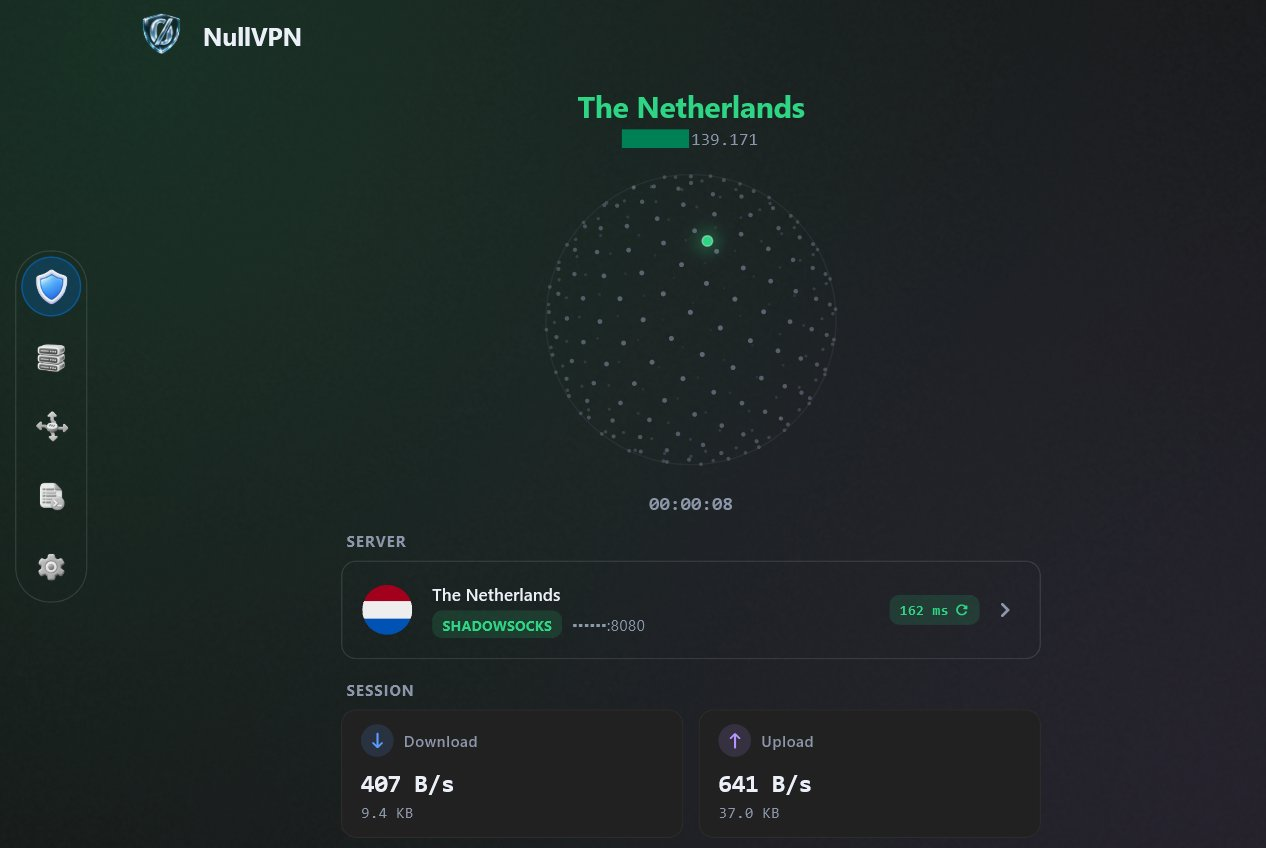
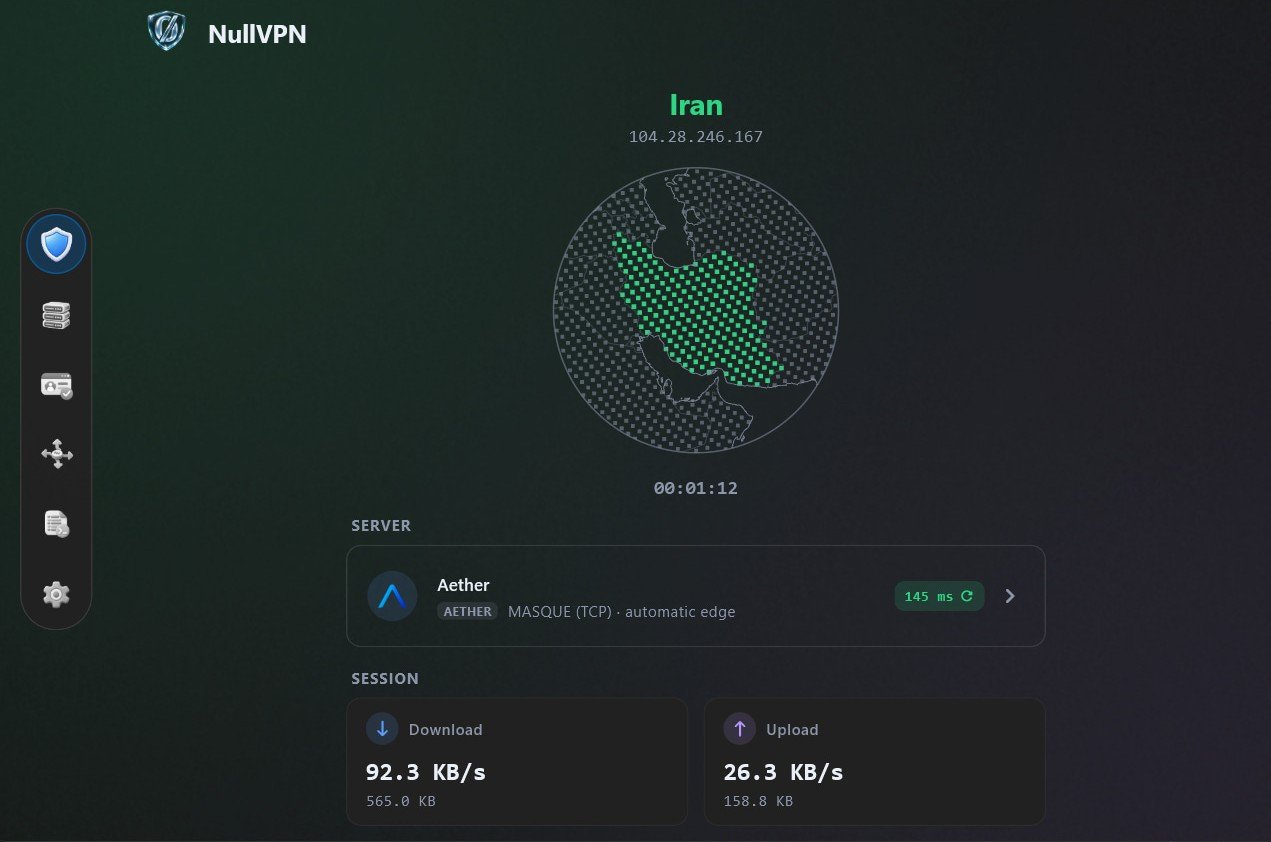
Live Web

diff --git a/fa/guide.html b/fa/guide.html
@@ -50,6 +50,10 @@
       <li><a href="#updates">آپدیت</a></li>
       <li><a href="#android">امکانات گوشی</a></li>
       <li><a href="#subscriptions">سابها</a></li>
+      <li><a href="#locks">لینک قفلدار</a></li>
+      <li><a href="#tools">ابزارها</a></li>
+      <li><a href="#hotspot">اشتراک با هاتاسپات</a></li>
+      <li><a href="#provider">تب Provider</a></li>
       <li><a href="#troubleshooting">رفع مشکل</a></li>
       <li><a href="#faq">سوالهای رایج</a></li>
     </ol>
@@ -190,6 +194,31 @@ sudo ./install.sh       # or install it, with menu entries and `nullvpn` on PATH
     <h2 id="subscriptions">سابهایی که تعداد دستگاه رو محدود میکنن</h2>
     <p>بعضی ارائهدهندهها بدون شناسه دستگاه لیست سرورها رو نمیدن. این گزینه بهصورت پیشفرض <strong>خاموشه</strong>. اگه لازمش داری، <span class="ui">تنظیمات ← اشتراکها ← ارسال شناسه دستگاه به اشتراکها</span> رو روشن کن و بعد ساب رو آپدیت کن.</p>
 
+    <p>دو تا گزینه توی <span class="ui">تنظیمات ← اتصال</span> موقع کار با سابها کمک میکنن. <span class="ui">آپدیت سابها از طریق VPN</span> وقتی وصلی سابها رو از داخل تونل میگیره، که وقتی آدرس ارائهدهنده توی شبکهات بستهست به کارت میاد؛ وقتی وصل نیستی هم مستقیم آپدیت میشن. <span class="ui">عوض کردن سرور بدون قطع اتصال</span> بهت اجازه میده سرور دیگهای رو انتخاب کنی بدون اینکه اول تونل قطع بشه. هر ساب یه گزینه <span class="ui">خودکار</span> هم داره که سریعترین سرور رو برات انتخاب میکنه.</p>
+
+    <h2 id="locks">لینک قفلدار</h2>
+    <p>اگه سرورها رو با بقیه به اشتراک میذاری، میتونی یه کانفیگ رو به لینکی تبدیل کنی که فقط NullVPN بتونه بازش کنه، پس آدرس و کلیدهای داخلش خونده نمیشن. <span class="ui">تنظیمات ← قفل کردن یه کانفیگ</span> رو باز کن، سرورها رو انتخاب کن و بگو لینک چطوری محافظت بشه:</p>
+    <ul>
+      <li><strong>فقط توی NullVPN:</strong> هر نسخهای از برنامه میتونه بازش کنه.</li>
+      <li><strong>فقط روی دستگاههای مشخص:</strong> شناسه دستگاه کسایی که باید بتونن استفاده کنن رو بذار. هر کسی شناسه خودش رو توی <span class="ui">تنظیمات ← شناسه دستگاه</span> پیدا میکنه.</li>
+      <li><strong>رمز بخواد:</strong> لینک فقط بعد از وارد کردن رمز باز میشه.</li>
+    </ul>
+    <p>تاریخ شروع و انقضا هم میتونی بذاری که لینک فقط توی همون بازه کار کنه. لینکهای قفلدار فقط داخل برنامه ساخته میشن و مثل هر لینک دیگهای از کلیپبورد یا کد QR اضافه میشن.</p>
+
+    <h2 id="tools">ابزارها</h2>
+    <p><span class="ui">تنظیمات ← ابزارها</span> چند تا چک رو یهجا جمع کرده که دیگه لازم نباشه سراغ مرورگر بری.</p>
+    <ul>
+      <li><strong>تست سرعت:</strong> دانلود، آپلود و تأخیر رو با Speedtest.net اندازه میگیره. وقتی وصلی از داخل VPN رد میشه، پس سرعت خود تونل رو نشون میده.</li>
+      <li><strong>چک آیپی و DNS:</strong> آیپی خودت رو قبل از اتصال ثبت میکنه و بعدش مقایسه میکنه، و تست میکنه که درخواستهای DNS یا ترافیک IPv6 از تونل بیرون نمیزنن.</li>
+      <li><strong>عیبیابی شبکه:</strong> اتصال رو قدمبهقدم بررسی میکنه و میگه کدوم مرحله خراب شده.</li>
+    </ul>
+
+    <h2 id="hotspot">اشتراک با هاتاسپات</h2>
+    <p>توی ویندوز و لینوکس، <span class="ui">تنظیمات ← ابزارها ← اشتراک VPN (هاتاسپات)</span> بهت اجازه میده گوشیها و دستگاههای دیگهای که به هاتاسپاتت وصلن از VPNت استفاده کنن. فقط توی حالت TUN کار میکنه و کیلسوییچ نمیذاره اگه تونل قطع شد ترافیکشون بدون محافظت بره بیرون. توی اندروید هم روی گوشی روتشده همین کار شدنیه. روی آیفون و مک نیست.</p>
+
+    <h2 id="provider">تب Provider</h2>
+    <p>اگه ارائهدهندهات از یکی از پنلهای پشتیبانیشده استفاده میکنه، NullVPN میتونه حسابت (ترافیک باقیمونده، تاریخ انقضا) رو نشون بده و لیست سرورهاش رو بدون نمایش تکتک کانفیگها بهروز نگه داره. این تب بهصورت پیشفرض خاموشه؛ برای استفاده، <span class="ui">نمایش تب Provider</span> رو توی تنظیمات روشن کن.</p>
+
     <h2 id="troubleshooting">رفع مشکل</h2>
     <details>
       <summary>وصل شده ولی هیچی باز نمیشه</summary>
@@ -243,7 +272,7 @@ sudo ./install.sh       # or install it, with menu entries and `nullvpn` on PATH
     </details>
     <details>
       <summary>NullVPN خودش به کجاها وصل میشه؟</summary>
-      <p>فقط سرورها و سابهایی که خودت اضافه میکنی، <code>ip-api.com</code> برای نشون دادن آیپی و کشورت، و یه لیست عمومی از رلهها وقتی توی Aether مکان خروج انتخاب کنی.</p>
+      <p>فقط سرورها و سابهایی که خودت اضافه میکنی. جدا از اونها: چند تا سرویس پیدا کردن آیپی برای نشون دادن آیپی و کشورت (و برای چکهای نشت)، Speedtest.net وقتی تست سرعت رو اجرا کنی، GitHub برای دیدن نسخههای جدید و دادههای مسیریابی، و یه لیست عمومی از رلهها وقتی توی Aether مکان خروج انتخاب کنی.</p>
     </details>
   </article>
 </main>

diff --git a/guide.html b/guide.html
@@ -50,6 +50,10 @@
       <li><a href="#updates">Updates</a></li>
       <li><a href="#android">Phone extras</a></li>
       <li><a href="#subscriptions">Subscriptions</a></li>
+      <li><a href="#locks">Locked links</a></li>
+      <li><a href="#tools">Tools</a></li>
+      <li><a href="#hotspot">Sharing over hotspot</a></li>
+      <li><a href="#provider">The Provider tab</a></li>
       <li><a href="#troubleshooting">Troubleshooting</a></li>
       <li><a href="#faq">FAQ</a></li>
     </ol>
@@ -190,6 +194,31 @@ sudo ./install.sh       # or install it, with menu entries and `nullvpn` on PATH
     <h2 id="subscriptions">Subscriptions that limit devices</h2>
     <p>Some providers refuse to list servers unless the app sends a device ID. This is <strong>off</strong> by default. If you need it, turn on <span class="ui">Settings → Subscriptions → Send device ID to subscriptions</span>, then update the subscription.</p>
 
+    <p>Two switches in <span class="ui">Settings → Connection</span> help when you use subscriptions. <span class="ui">Update subscriptions through the VPN</span> fetches them over the tunnel while you are connected, which helps when the provider's address is blocked on your network; when you are disconnected they update directly. <span class="ui">Switch servers without disconnecting</span> lets you pick another server without dropping the tunnel first. Every subscription also has an <span class="ui">Auto</span> entry that picks the fastest server for you.</p>
+
+    <h2 id="locks">Locked links</h2>
+    <p>If you share servers with other people, you can turn a configuration into a link that only NullVPN can open, so the address and keys inside are not readable. Open <span class="ui">Settings → Lock a configuration</span>, choose the servers, and pick how the link is protected:</p>
+    <ul>
+      <li><strong>Only in NullVPN:</strong> any copy of the app can open it.</li>
+      <li><strong>Only on specific devices:</strong> paste the Device IDs of the people who should be able to use it. Each person finds theirs under <span class="ui">Settings → Device ID</span>.</li>
+      <li><strong>Ask for a password:</strong> the link opens only after the password is entered.</li>
+    </ul>
+    <p>You can also set a start and an expiry date, so a link only works inside that window. Locked links are made inside the app and are added like any other link, from the clipboard or a QR code.</p>
+
+    <h2 id="tools">Tools</h2>
+    <p><span class="ui">Settings → Tools</span> collects a few checks that save a trip to a browser.</p>
+    <ul>
+      <li><strong>Speed test:</strong> measures download, upload and latency using Speedtest.net. While you are connected it runs through the VPN, so it tells you the speed of the tunnel itself.</li>
+      <li><strong>IP &amp; DNS check:</strong> records your address before you connect and compares it afterwards, and tests whether your DNS queries or IPv6 traffic escape the tunnel.</li>
+      <li><strong>Network diagnostics:</strong> walks through the connection step by step and tells you which one fails.</li>
+    </ul>
+
+    <h2 id="hotspot">Sharing over hotspot</h2>
+    <p>On Windows and Linux, <span class="ui">Settings → Tools → Share VPN (hotspot)</span> lets phones and other devices on your hotspot use your VPN. It works in TUN mode only, and the kill switch keeps their traffic from leaving unprotected if the tunnel drops. Android can do the same on a rooted phone. It is not available on iPhone or Mac.</p>
+
+    <h2 id="provider">The Provider tab</h2>
+    <p>If your provider uses a supported panel, NullVPN can show your account (traffic left, expiry) and keep their server list up to date without displaying the individual configurations. The tab is off by default; turn on <span class="ui">Show the Provider tab</span> in Settings to use it.</p>
+
     <h2 id="troubleshooting">Troubleshooting</h2>
     <details>
       <summary>Connected, but nothing loads</summary>
@@ -243,7 +272,7 @@ sudo ./install.sh       # or install it, with menu entries and `nullvpn` on PATH
     </details>
     <details>
       <summary>What does NullVPN connect to on its own?</summary>
-      <p>Only the servers and subscriptions you add, <code>ip-api.com</code> to show your IP and country, and a public relay list when you pick an exit location in Aether.</p>
+      <p>Only the servers and subscriptions you add. Beyond those: a few IP lookup services to show your address and country (and for the leak checks), Speedtest.net when you run the speed test, GitHub to look for new versions and routing data, and a public relay list when you pick an exit location in Aether.</p>
     </details>
   </article>
 </main>

diff --git a/fa/index.html b/fa/index.html
@@ -62,7 +62,7 @@
       </ul>
       <picture>
         <source srcset="../assets/screenshot.webp" type="image/webp">
-        <img class="shot" src="../assets/screenshot.jpg" alt="NullVPN در حالت وصل، با سرور، زمان سشن و سرعت لحظهای" width="1266" height="848">
+        <img class="shot" src="../assets/screenshot.jpg" alt="NullVPN وصل شده از طریق Aether، با کشور، پینگ و دانلود و آپلود سشن" width="1271" height="842">
       </picture>
     </div>
   </section>
@@ -118,6 +118,21 @@
           <div class="ico ice"><svg viewBox="0 0 24 24" fill="none" stroke="currentColor" stroke-width="2" stroke-linecap="round" stroke-linejoin="round"><path d="M4 5h9M8.5 3v2M6 5c0 4 3 7 6 8M11 5c-1 4-4 7-7 8M13 21l4-10 4 10M14.5 17.5h5"/></svg></div>
           <h3>فارسی و English</h3>
           <p>پشتیبانی کامل راست به چپ با فونت استعداد، تم روشن و تیره.</p>
+        </div>
+        <div class="card">
+          <div class="ico violet"><svg viewBox="0 0 24 24" fill="none" stroke="currentColor" stroke-width="2" stroke-linecap="round" stroke-linejoin="round"><rect x="5" y="11" width="14" height="10" rx="2"/><path d="M8 11V8a4 4 0 0 1 8 0v3"/></svg></div>
+          <h3>لینک قفلدار</h3>
+          <p>یه لینک سرور بساز که فقط NullVPN بتونه بازش کنه. میتونی به دستگاههای مشخص محدودش کنی، رمز بذاری یا تاریخ شروع و انقضا بدی.</p>
+        </div>
+        <div class="card">
+          <div class="ico"><svg viewBox="0 0 24 24" fill="none" stroke="currentColor" stroke-width="2" stroke-linecap="round" stroke-linejoin="round"><path d="M3 12h4l2-6 4 12 2-6h6"/></svg></div>
+          <h3>ابزارهای داخل برنامه</h3>
+          <p>تست سرعت، چک کردن آیپی و نشت DNS، و عیبیابی قدمبهقدم شبکه، همه توی خود برنامه.</p>
+        </div>
+        <div class="card">
+          <div class="ico ice"><svg viewBox="0 0 24 24" fill="none" stroke="currentColor" stroke-width="2" stroke-linecap="round" stroke-linejoin="round"><path d="M5 12.5a10 10 0 0 1 14 0M8.5 16a5 5 0 0 1 7 0"/><circle cx="12" cy="19.5" r="1"/></svg></div>
+          <h3>اشتراک VPN با هاتاسپات</h3>
+          <p>توی ویندوز و لینوکس میتونی VPNت رو به بقیه دستگاههای وصل به هاتاسپات بدی. گوشیهای اندروید روتشده هم میتونن.</p>
         </div>
       </div>
     </div>
@@ -177,7 +192,9 @@
       </div>
       <div class="grid">
         <div class="card"><h3>سرورهای خودت</h3><p>سرورها و لینکهای سابی که <strong>خودت</strong> اضافه میکنی.</p></div>
-        <div class="card"><h3>ip-api.com</h3><p>برای نشون دادن آیپی و کشورت.</p></div>
+        <div class="card"><h3>سرویسهای پیدا کردن آیپی</h3><p>برای نشون دادن آیپی و کشورت، و برای چک کردن نشت توی ابزارها.</p></div>
+        <div class="card"><h3>Speedtest.net</h3><p>فقط وقتی تست سرعت رو اجرا کنی.</p></div>
+        <div class="card"><h3>GitHub</h3><p>برای دیدن نسخههای جدید و فایلهای مسیریابی.</p></div>
         <div class="card"><h3>یه لیست عمومی از رلهها</h3><p>فقط وقتی توی Aether مکان خروج انتخاب کنی.</p></div>
         <div class="card"><h3>شناسه دستگاه: خاموش</h3><p>ارسال شناسه دستگاه به سابها بهصورت پیشفرض خاموشه. فقط اگه ارائهدهندهات تعداد دستگاه رو محدود کرده روشنش کن.</p></div>
       </div>

diff --git a/index.html b/index.html
@@ -61,7 +61,7 @@
       </ul>
       <picture>
         <source srcset="assets/screenshot.webp" type="image/webp">
-        <img class="shot" src="assets/screenshot.jpg" alt="NullVPN connected, showing the server, session time and live speeds" width="1266" height="848">
+        <img class="shot" src="assets/screenshot.jpg" alt="NullVPN connected through Aether, showing the country, ping and the session's download and upload" width="1271" height="842">
       </picture>
     </div>
   </section>
@@ -117,6 +117,21 @@
           <div class="ico ice"><svg viewBox="0 0 24 24" fill="none" stroke="currentColor" stroke-width="2" stroke-linecap="round" stroke-linejoin="round"><path d="M4 5h9M8.5 3v2M6 5c0 4 3 7 6 8M11 5c-1 4-4 7-7 8M13 21l4-10 4 10M14.5 17.5h5"/></svg></div>
           <h3>English and فارسی</h3>
           <p>Full right-to-left support, light and dark themes.</p>
+        </div>
+        <div class="card">
+          <div class="ico violet"><svg viewBox="0 0 24 24" fill="none" stroke="currentColor" stroke-width="2" stroke-linecap="round" stroke-linejoin="round"><rect x="5" y="11" width="14" height="10" rx="2"/><path d="M8 11V8a4 4 0 0 1 8 0v3"/></svg></div>
+          <h3>Locked links</h3>
+          <p>Share a server link that only NullVPN can open. Limit it to chosen devices, add a password or set dates it works between.</p>
+        </div>
+        <div class="card">
+          <div class="ico"><svg viewBox="0 0 24 24" fill="none" stroke="currentColor" stroke-width="2" stroke-linecap="round" stroke-linejoin="round"><path d="M3 12h4l2-6 4 12 2-6h6"/></svg></div>
+          <h3>Built-in tools</h3>
+          <p>A speed test, an IP and DNS leak check, and step-by-step network diagnostics, all inside the app.</p>
+        </div>
+        <div class="card">
+          <div class="ico ice"><svg viewBox="0 0 24 24" fill="none" stroke="currentColor" stroke-width="2" stroke-linecap="round" stroke-linejoin="round"><path d="M5 12.5a10 10 0 0 1 14 0M8.5 16a5 5 0 0 1 7 0"/><circle cx="12" cy="19.5" r="1"/></svg></div>
+          <h3>Share over hotspot</h3>
+          <p>On Windows and Linux, let other devices on your hotspot use your VPN. Rooted Android phones can do it too.</p>
         </div>
       </div>
     </div>
@@ -176,7 +191,9 @@
       </div>
       <div class="grid">
         <div class="card"><h3>Your servers</h3><p>The servers and subscription links <strong>you</strong> add.</p></div>
-        <div class="card"><h3>ip-api.com</h3><p>To show your current IP address and country.</p></div>
+        <div class="card"><h3>IP lookup services</h3><p>To show your current IP address and country, and for the leak checks in Tools.</p></div>
+        <div class="card"><h3>Speedtest.net</h3><p>Only when you run the speed test.</p></div>
+        <div class="card"><h3>GitHub</h3><p>To look for new versions and routing data files.</p></div>
         <div class="card"><h3>A public relay list</h3><p>Only when you choose an exit location in Aether.</p></div>
         <div class="card"><h3>Device ID: off</h3><p>Sending a device ID to subscriptions is off by default. Turn it on only if your provider limits devices.</p></div>
       </div>
